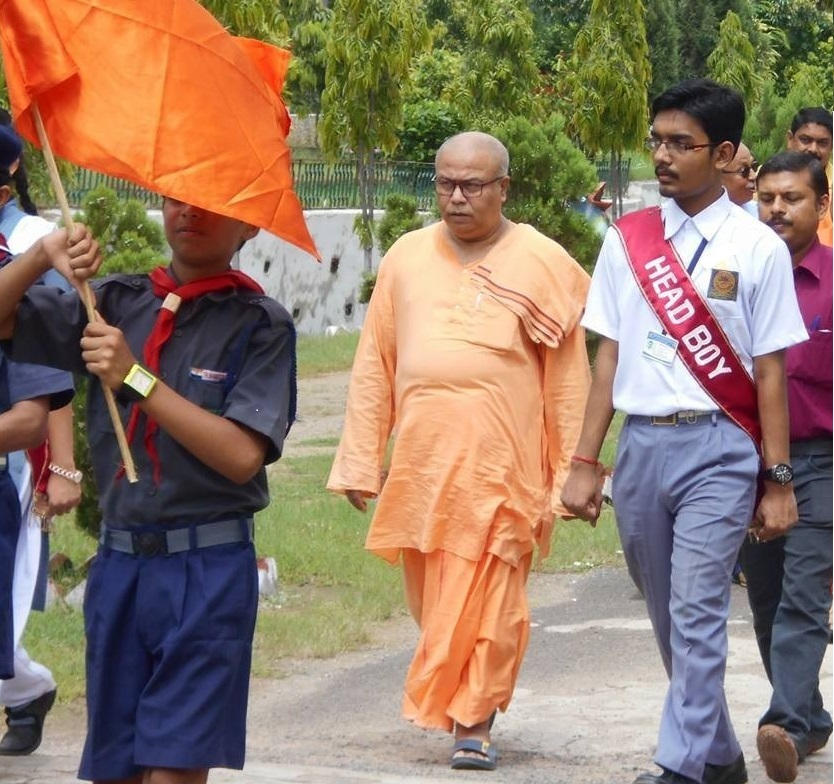
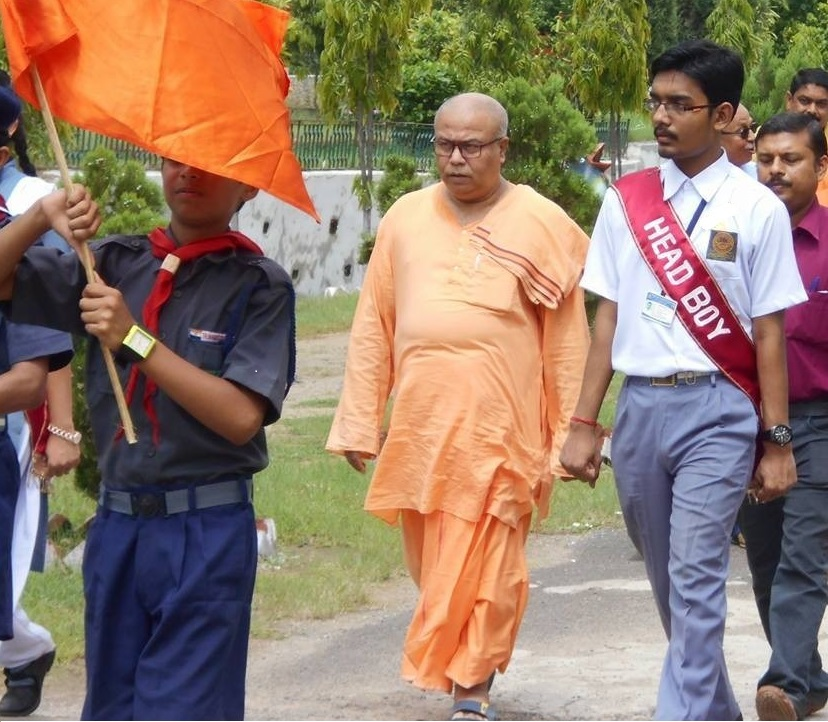
extra curr

diff --git a/extra_curriculars.html b/extra_curriculars.html
@@ -118,7 +118,7 @@
 												</p>
 												</div>
 											<div class="content col-lg-6" >
-												<img src="images/extra_curriculars/head_boy.jpg" style="width:100%; height:285px; border-radius: 10px;">
+												<img src="images/extra_curriculars/head_boy.jpg" style="width:100%; height:320px; border-radius: 10px;">
 											</div>
 										</div>
 									</div>
